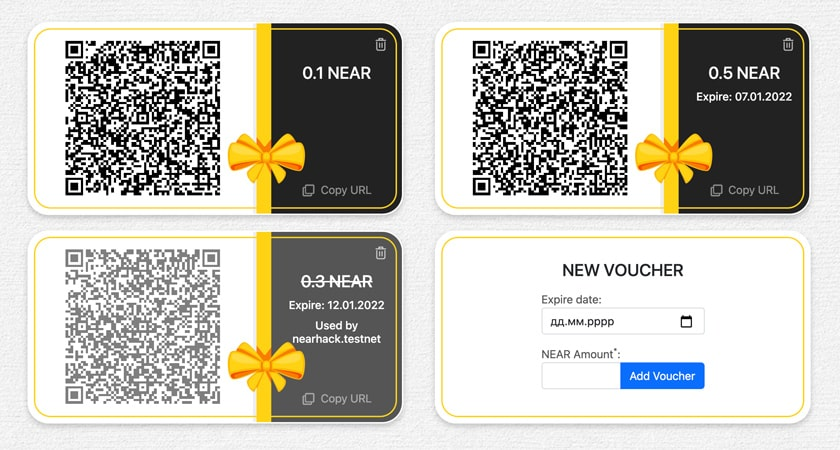
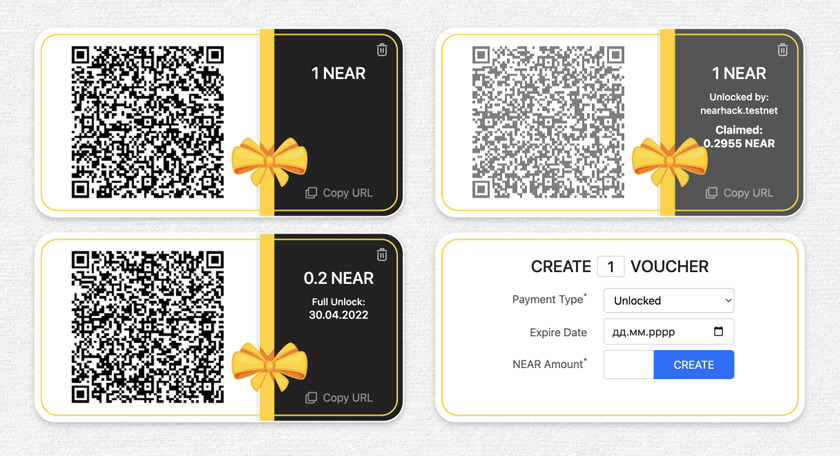
Update vouchers

diff --git a/src/components/SignedOut.vue b/src/components/SignedOut.vue
@@ -4,24 +4,75 @@
       <img src="../assets/logo.png" alt="logo" width="200">
     </div>
     <h2 class="mb-lg-5 mb-3 text-center">
-      NEAR Payment Vouchers
+      Payment Vouchers
     </h2>
     <div class="landing-top">
       <img src="../assets/sample.jpg" alt="sample" class="sample-image">
       <div>
-        <p class="mt-4 pt-3">
-          <b>Pay offline using NEAR Payment Vouchers:</b>
+        <p class="mt-2 pt-3">
+          <b>Extend the finance management with NEAR Payment Vouchers!</b>
         </p>
-        <ol>
-          <li>Login using your NEAR wallet.</li>
-          <li>Generate payment vouchers (it will lock your funds).</li>
-          <li>Send link or show QR-code to make a payment.</li>
-        </ol>
-        <p class="pt-3 text-md-start text-center">
-          <button class="btn btn-primary" v-on:click="login">Sign In</button>
+        <p>Lock your NEAR tokens using our smart contract and receive unique voucher that can be used by scan QR-code or follow URL to get locked tokens.</p>
+        <p>We support different payment types and allow to receive all tokens or claim tokens by linear unlock.</p>
+        <p class="pt-2 text-md-start text-center">
+          <button class="btn btn-primary" v-on:click="login">Sign In &raquo;</button>
         </p>
       </div>
     </div>
+
+    <div class="row text-center mt-5">
+      <div class="col-10 offset-1 mt-2">
+        <div class="row">
+          <div class="col-4">
+            <div class="counter">1</div>
+            <p class="fw-bolder mb-1">Login using your <a href="https://wallet.near.org/" class="text-black" target="_blank">NEAR Wallet</a>.</p>
+            <div>NEAR Blockchain - fast and cheap solution for secure transactions.</div>
+          </div>
+          <div class="col-4">
+            <div class="counter">2</div>
+            <p class="fw-bolder mb-1">Generate payment vouchers.</p>
+            <div>You can create one or multiple Vouchers in few seconds!</div>
+          </div>
+          <div class="col-4">
+            <div class="counter">3</div>
+            <p class="fw-bolder mb-1">Send secret URL or scan QR-code.</p>
+            <div>Mobile-friendly solution allow to use Payment Vouchers on any device.</div>
+          </div>
+        </div>
+      </div>
+    </div>
+
+    <h3 class="text-center mt-5 mb-4">Payment Options</h3>
+    <div class="row">
+      <div class="col-6 text-right">
+        <img src="../assets/unlocked.jpg" alt="" class="sample-image" width="60%">
+      </div>
+      <div class="col-6">
+        <h5 class="mt-2">Unlocked Voucher</h5>
+        <p class="mb-1">Useful for:</p>
+        <ul>
+          <li>Send direct payments.</li>
+          <li>Reward for event participants.</li>
+          <li>Gift-cards for anyone.</li>
+        </ul>
+      </div>
+    </div>
+
+    <div class="row mt-4">
+      <div class="col-6 text-right">
+        <img src="../assets/lock.jpg" alt="" class="sample-image" width="60%">
+      </div>
+      <div class="col-6">
+        <h5 class="pt-4">Linear-lock Voucher</h5>
+        <p class="mb-1">Useful for:</p>
+        <ul>
+          <li>Token Vesting.</li>
+          <li>Long-term payments.</li>
+        </ul>
+      </div>
+    </div>
+    <br>
+
     <footer>
       NEAR Voucher &copy; 2022
     </footer>
@@ -29,7 +80,7 @@
 </template>
 
 <script>
-import {login} from "../utils"
+import { login } from "../utils"
 
 export default {
   name: "SignedOut",

diff --git a/src/components/Vouchers.vue b/src/components/Vouchers.vue
@@ -2,8 +2,11 @@
   <main>
     <Header></Header>
 
-    <div class="container-lg">
-      <h2 class="text-center mb-5">My Payment Vouchers</h2>
+    <div class="container-lg position-relative">
+      <button class="position-absolute rounded-circle border border-secondary print-btn" @click="print()">
+        <img src="../assets/print.svg" width="18" alt="">
+      </button>
+      <h2 class="text-center mb-5 page-title">My Payment Vouchers</h2>
 
       <div v-if="is_ready">
         <p v-if="!vouchers.length" class="text-center">
@@ -32,17 +35,24 @@
                      @click="removeVoucher(voucher.id)">
 
                 <h4 class="text-center near-amount">
-                  <span :class="{'is-used': voucher.used_by}">
+                  <span :class="{'is-used': voucher.used_by && voucher.payment_type === 'static'}">
                     {{ toNearAmount(voucher.deposit_amount) }} NEAR
                   </span>
                   <small class="used-label" v-if="!voucher.used_by && voucher.expire_date">
-                    <small v-if="voucher.payment_type === 'static'">Expire:</small>
+                    <small v-if="voucher.payment_type === 'static'">Expire<u class="text-decoration-none" v-if="isExpired(voucher.expire_date)">d</u>:</small>
                     <small v-if="voucher.payment_type === 'linear'">Full Unlock:</small>
                     {{ dateFormat(voucher.expire_date) }}
                   </small>
 
-                  <small class="used-label" v-if="voucher.used_by">Used By: {{ voucher.used_by }}</small>
-                  <small class="used-label" v-if="voucher.paid_amount">Paid: {{ toNearAmount(voucher.paid_amount) }} NEAR</small>
+                  <small class="used-label" v-if="voucher.used_by">
+                    <small>Unlocked by: {{ voucher.used_by }}</small>
+                  </small>
+                  <small class="used-label" v-if="voucher.paid_amount">
+                    <b v-if="voucher.payment_type === 'static'">Claimed</b>
+                    <b v-if="voucher.payment_type !== 'static'">Claimed: <br>
+                      {{ parseFloat(toNearAmount(voucher.paid_amount)).toFixed(5) }} NEAR
+                    </b>
+                  </small>
                 </h4>
 
                 <div class="copy" @click="copyURL(voucher.id)">
@@ -55,7 +65,7 @@
             </div>
           </div>
 
-          <div class="one-voucher">
+          <div class="one-voucher add-voucher-form">
             <form @submit.prevent="addVoucher" class="row">
               <div class="offset-1 col-10">
                 <div class="additional-border"></div>
@@ -214,9 +224,10 @@ export default {
     },
 
     async removeVoucher(id) {
-      if (confirm("Please confirm voucher removing. The balance will be refunded to your wallet.")) {
+      if (confirm("Please confirm voucher removing.")) {
+        const GAS = Big(100).times(10 ** 12).toFixed();
         try {
-          await window.contract.remove_voucher({ id });
+          await window.contract.remove_voucher({ id }, GAS, 1);
         } catch (e) {
           alert("Something went wrong!");
           throw e //re-throw
@@ -266,6 +277,10 @@ export default {
       }
       return result;
     },
+
+    print() {
+      window.print();
+    }
 
   },
 }

diff --git a/src/global.css b/src/global.css
@@ -1,7 +1,27 @@
 body {
     margin: 0;
-    height: 100%;
+    min-height: 100%;
     background: #efefef url("assets/background.jpeg") fixed;
+}
+
+.counter {
+    display: block;
+    margin: auto;
+    font-size: 38px;
+    height: 88px;
+    line-height: 82px;
+    width: 88px;
+    border: 2px solid #f8d14b;
+    border-radius: 50%;
+    margin-bottom: 12px;
+    font-weight: 500;
+    background: #f6e195;
+    color: #eb9334;
+}
+
+footer {
+    position: relative !important;
+    margin-top: 30px;
 }
 
 .input-group-append button {
@@ -65,6 +85,7 @@ body {
     border-radius: 30px;
     background: #FFF;
     box-shadow: 0 4px 8px rgba(0, 0, 0, 0.2);
+    page-break-inside: avoid;
 }
 
 .one-voucher .voucher-inner {
@@ -109,7 +130,7 @@ body {
     position: absolute;
     width: 110px;
     left: -41px;
-    top: 58%;
+    top: 60%;
     z-index: 2;
 }
 
@@ -131,7 +152,7 @@ body {
     margin-top: 10px;
 }
 
-.is-used span {
+span.is-used {
     text-decoration: line-through;
 }
 
@@ -155,7 +176,7 @@ body {
 }
 
 .one-voucher .near-amount {
-    margin-top: 25%;
+    margin-top: 20%;
 }
 
 .one-voucher .copy img {
@@ -202,6 +223,11 @@ select.custom-select {
     font-weight: bold;
 }
 
+.print-btn {
+    right: 14px;
+    padding: 8px 12px;
+}
+
 @media all and (max-width: 1200px) {
     .one-voucher .gift-vertical img, .one-voucher .gift-vertical:after {
         display: none;
@@ -220,5 +246,26 @@ select.custom-select {
 
     .one-voucher {
         margin-bottom: 50px;
+    }
+}
+
+@media print {
+    @page {
+        size: A4;
+        margin-top: 2cm;
+    }
+
+    html, body {
+        margin: 0;
+        color: #000;
+        background: #fff;
+    }
+
+    button, .print-btn, header, .page-title, .remove-voucher, .copy, .is-used, .add-voucher-form {
+        display: none;
+    }
+
+    .one-voucher {
+        margin: 1.5cm 0 0 0;
     }
 }

diff --git a/src/components/VoucherPayment.vue b/src/components/VoucherPayment.vue
@@ -35,7 +35,7 @@
                   </span>
                   <hr>
                   <div>
-                    Claimed: {{ toNearAmount(voucher.paid_amount) }} NEAR
+                    Claimed: {{ parseFloat(toNearAmount(voucher.paid_amount)).toFixed(6) }} NEAR
                   </div>
                   <div>
                     You can Claim: {{ parseFloat(toNearAmount(voucher.unlocked)).toFixed(6) }} NEAR
@@ -44,7 +44,6 @@
                     <b-button variant="primary" type="submit" class="fw-bold text-uppercase" :disabled="voucher.unlocked <= 0">Claim</b-button>
                   </div>
                 </div>
-
               </div>
             </form>
           </div>
@@ -56,8 +55,11 @@
         <b-col lg="5" md="6">
           <img src="../assets/success.png" alt="success" width="60">
           <p class="mt-3">
-            <b>You received {{ toNearAmount(paymentAmount) }} NEAR.</b>
+            <b>You received {{ parseFloat(toNearAmount(paymentAmount)).toFixed(6) }} NEAR.</b>
           </p>
+          <div class="mt-2">
+            <a class="btn btn-outline-secondary" href="/">Open my Payment Vouchers</a>
+          </div>
         </b-col>
         <b-col></b-col>
       </b-row>

diff --git a/src/components/Header.vue b/src/components/Header.vue
@@ -3,7 +3,7 @@
     <div class="container-lg d-flex justify-content-between">
       <img src="../assets/logo.png" width="150" alt="logos">
       <div>
-        <span class="username">{{ accountId }}</span>
+        <span class="username fw-bold text-black-50 pt-1">{{ accountId }}</span>
         <button class="btn btn-primary" v-on:click="logout">Sign out</button>
       </div>
     </div>
@@ -11,7 +11,7 @@
 </template>
 
 <script>
-import {logout} from '../utils';
+import { logout } from '../utils';
 
 export default {
   name: "Header",

diff --git a/src/App.vue b/src/App.vue
@@ -1,9 +1,9 @@
 <template>
   <div id="root">
-    <SignedOut v-show="!isSignedIn"/>
+    <SignedOut v-show="!isSignedIn" />
     <div v-show="isSignedIn">
-      <Vouchers v-show="!isPayment"/>
-      <VoucherPayment v-show="isPayment"/>
+      <Vouchers v-show="!isPayment" />
+      <VoucherPayment v-show="isPayment" />
     </div>
   </div>
 </template>

diff --git a/contract/src/lib.rs b/contract/src/lib.rs
@@ -1,5 +1,5 @@
-use near_sdk::{AccountId, Promise, Timestamp};
-use near_sdk::{env, log, near_bindgen, setup_alloc};
+use near_sdk::{AccountId, assert_one_yocto, Promise, Timestamp};
+use near_sdk::{env, near_bindgen, setup_alloc};
 use near_sdk::borsh::{self, BorshDeserialize, BorshSerialize};
 use near_sdk::BorshStorageKey;
 use near_sdk::collections::{LookupMap, UnorderedSet};
@@ -71,6 +71,8 @@ impl VoucherContract {
     pub fn add_voucher(&mut self, hash_list: Vec<String>, id_list: Vec<String>, expire_date: Option<Timestamp>, payment_type: String) {
         assert!(env::attached_deposit() > 0, "You should attach some Deposit");
         assert!(env::attached_deposit() <= MAX_DEPOSIT, "Please attach less than 1000 NEAR");
+        let deposit_amount = env::attached_deposit() / id_list.len() as u128;
+
         if payment_type != "static" && expire_date.is_none() {
             panic!("Specify unlock date");
         }
@@ -94,13 +96,16 @@ impl VoucherContract {
                 id: id.to_string(),
                 payment_type: payment_type.to_string(),
                 expire_date,
+                deposit_amount,
                 ..Voucher::default()
             });
             self.vouchers.insert(&owner_id, &user_vouchers);
         }
     }
 
+    #[payable]
     pub fn remove_voucher(&mut self, id: String) {
+        assert_one_yocto();
         let mut user_vouchers = match self.vouchers.get(&env::predecessor_account_id()) {
             Some(vouchers) => vouchers,
             None => panic!("Error: User vouchers not found"),
@@ -111,7 +116,8 @@ impl VoucherContract {
         // Return voucher balance to the owner (if there was no lock or voucher already used)
         if voucher.used_by.is_none() || voucher.deposit_amount == voucher.paid_amount {
             if voucher.deposit_amount != voucher.paid_amount {
-                Promise::new(env::predecessor_account_id()).transfer(voucher.deposit_amount);
+                let payment_diff = voucher.deposit_amount - voucher.paid_amount;
+                Promise::new(env::predecessor_account_id()).transfer(payment_diff);
             }
 
             // Remove voucher
